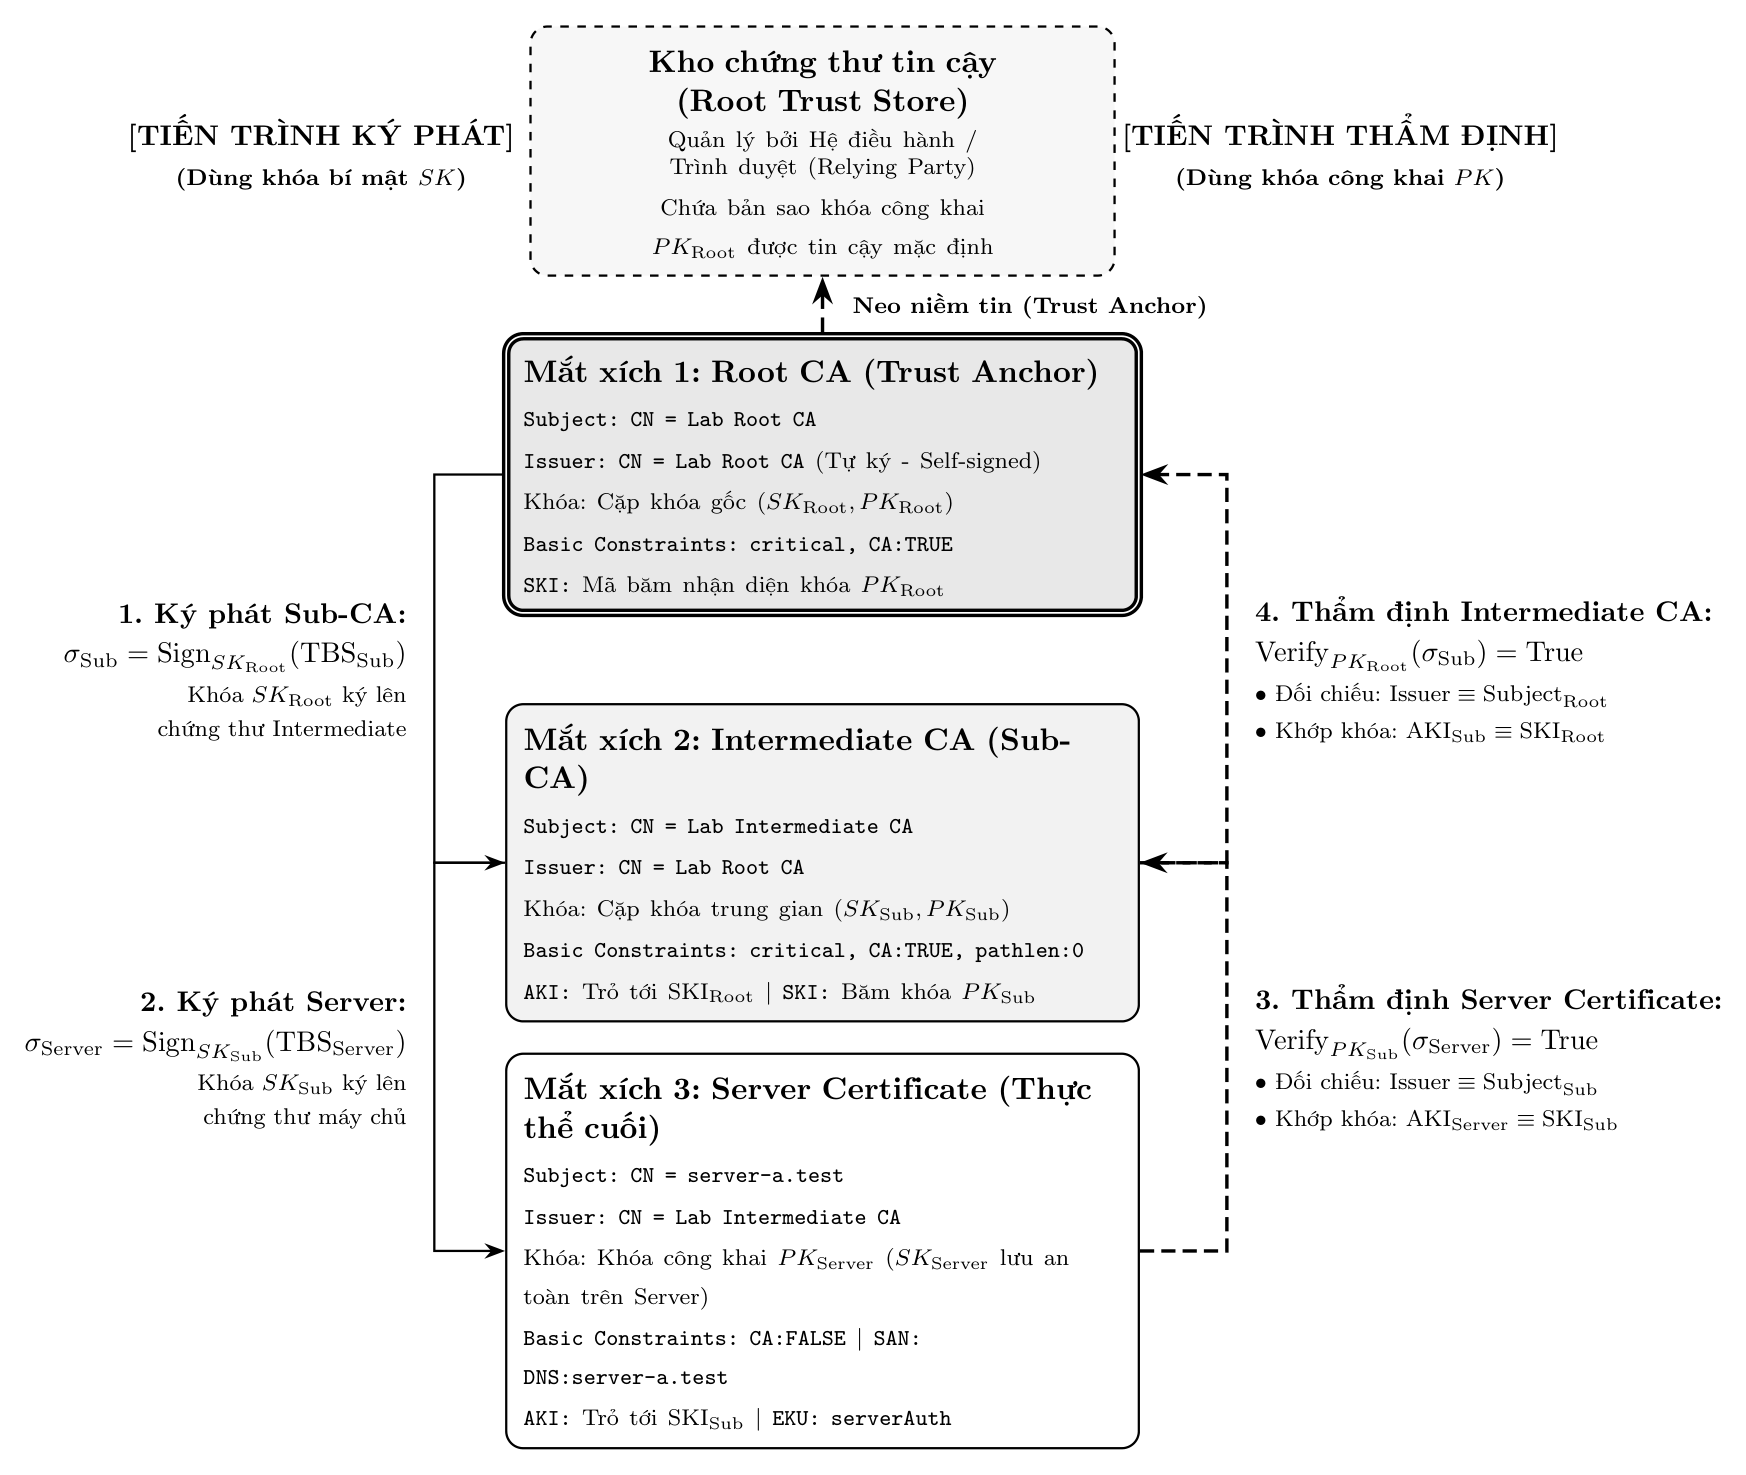
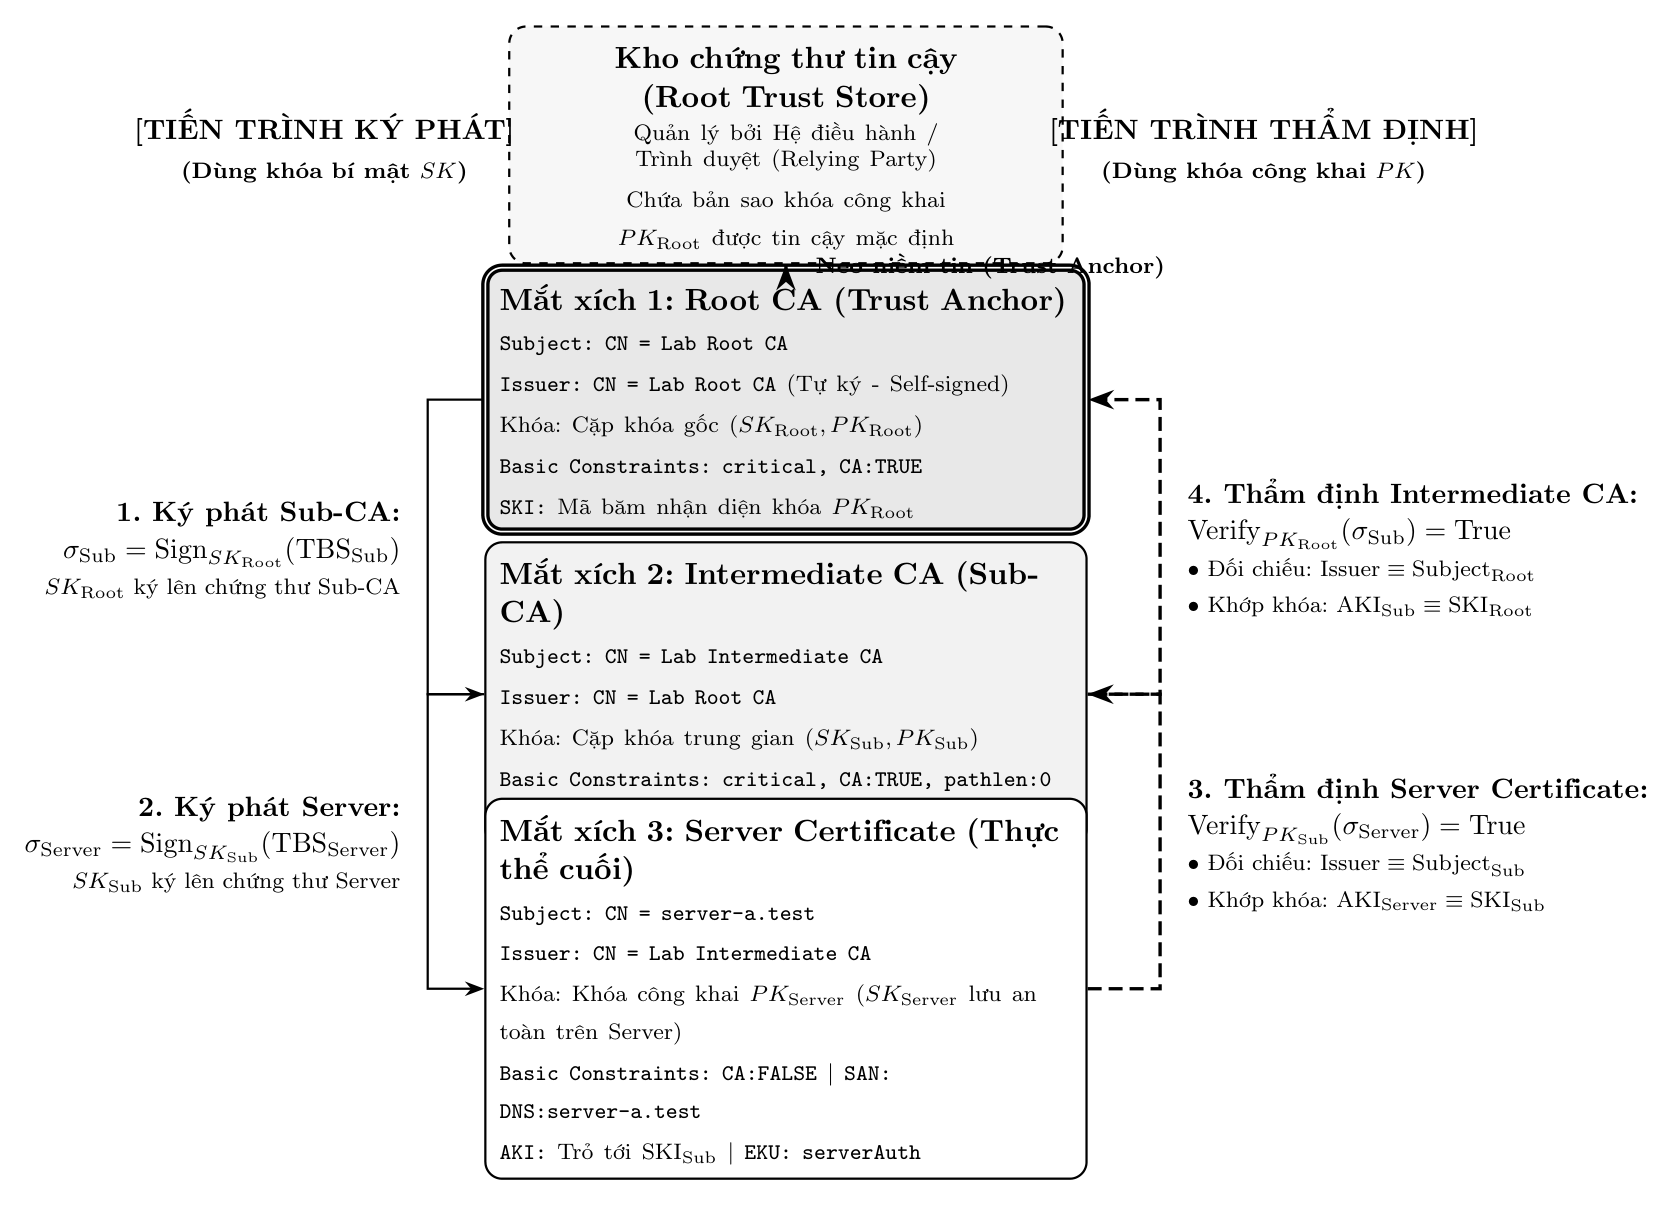
style(ch4): optimize placement of figures and tables so each is on same page as its description

diff --git a/report/figures/trust-chain-validation.tex b/report/figures/trust-chain-validation.tex
@@ -1,25 +1,25 @@
-\resizebox{0.92\textwidth}{!}{%
+\resizebox{0.88\textwidth}{!}{%
 \begin{tikzpicture}[
     % Định dạng các khối theo sắc xám học thuật nhất quán với Hình 3.1
-    rootbox/.style={draw=black, very thick, double, fill=gray!18, rounded corners=6pt, text width=7.4cm, align=left, inner sep=6pt, font=\small, text=black},
-    cabox/.style={draw=black, thick, fill=gray!10, rounded corners=6pt, text width=7.4cm, align=left, inner sep=6pt, font=\small, text=black},
-    leafbox/.style={draw=black, thick, fill=white, rounded corners=6pt, text width=7.4cm, align=left, inner sep=6pt, font=\small, text=black},
-    storebox/.style={draw=black, thick, dashed, fill=gray!6, rounded corners=6pt, text width=6.8cm, align=center, inner sep=6pt, font=\small, text=black},
+    rootbox/.style={draw=black, very thick, double, fill=gray!18, rounded corners=6pt, text width=7.2cm, align=left, inner sep=5pt, font=\small, text=black},
+    cabox/.style={draw=black, thick, fill=gray!10, rounded corners=6pt, text width=7.2cm, align=left, inner sep=5pt, font=\small, text=black},
+    leafbox/.style={draw=black, thick, fill=white, rounded corners=6pt, text width=7.2cm, align=left, inner sep=5pt, font=\small, text=black},
+    storebox/.style={draw=black, thick, dashed, fill=gray!6, rounded corners=6pt, text width=6.6cm, align=center, inner sep=5pt, font=\small, text=black},
     % Kiểu mũi tên nét liền (tiến trình ký) và nét đứt (tiến trình thẩm định)
-    issuancearrow/.style={-{Stealth[scale=1.1]}, thick, black},
-    valarrow/.style={-{Stealth[scale=1.15]}, very thick, dash pattern=on 5pt off 2.5pt, black},
-    trustarrow/.style={-{Stealth[scale=1.15]}, very thick, dash pattern=on 6pt off 3pt, black}
+    issuancearrow/.style={-{Stealth[scale=1.05]}, thick, black},
+    valarrow/.style={-{Stealth[scale=1.1]}, very thick, dash pattern=on 5pt off 2.5pt, black},
+    trustarrow/.style={-{Stealth[scale=1.1]}, very thick, dash pattern=on 6pt off 3pt, black}
 ]
 
     % --- KHỐI GỐC TIN CẬY (TRUST ANCHOR TRÊN CÙNG) ---
-    \node[storebox] (store) at (0, 13.6) {
-        \textbf{Kho chứng thư tin cậy (Root Trust Store)}\\[2pt]
+    \node[storebox] (store) at (0, 10.6) {
+        \textbf{Kho chứng thư tin cậy (Root Trust Store)}\\[1pt]
         {\scriptsize Quản lý bởi Hệ điều hành / Trình duyệt (Relying Party)\\[1pt]Chứa bản sao khóa công khai $PK_{\mathrm{Root}}$ được tin cậy mặc định}
     };
 
     % --- KHỐI 1: Root CA ---
-    \node[rootbox] (root) at (0, 9.6) {
-        \textbf{Mắt xích 1: Root CA (Trust Anchor)}\\[2pt]
+    \node[rootbox] (root) at (0, 7.4) {
+        \textbf{Mắt xích 1: Root CA (Trust Anchor)}\\[1pt]
         {\scriptsize \texttt{Subject: CN = Lab Root CA}}\\[1pt]
         {\scriptsize \texttt{Issuer:  CN = Lab Root CA} (Tự ký - Self-signed)}\\[1pt]
         {\scriptsize Khóa: Cặp khóa gốc $(SK_{\mathrm{Root}}, PK_{\mathrm{Root}})$}\\[1pt]
@@ -28,8 +28,8 @@
     };
 
     % --- KHỐI 2: Intermediate CA ---
-    \node[cabox] (subca) at (0, 4.8) {
-        \textbf{Mắt xích 2: Intermediate CA (Sub-CA)}\\[2pt]
+    \node[cabox] (subca) at (0, 3.7) {
+        \textbf{Mắt xích 2: Intermediate CA (Sub-CA)}\\[1pt]
         {\scriptsize \texttt{Subject: CN = Lab Intermediate CA}}\\[1pt]
         {\scriptsize \texttt{Issuer:  CN = Lab Root CA}}\\[1pt]
         {\scriptsize Khóa: Cặp khóa trung gian $(SK_{\mathrm{Sub}}, PK_{\mathrm{Sub}})$}\\[1pt]
@@ -39,7 +39,7 @@
 
     % --- KHỐI 3: Server Certificate ---
     \node[leafbox] (server) at (0, 0.0) {
-        \textbf{Mắt xích 3: Server Certificate (Thực thể cuối)}\\[2pt]
+        \textbf{Mắt xích 3: Server Certificate (Thực thể cuối)}\\[1pt]
         {\scriptsize \texttt{Subject: CN = server-a.test}}\\[1pt]
         {\scriptsize \texttt{Issuer:  CN = Lab Intermediate CA}}\\[1pt]
         {\scriptsize Khóa: Khóa công khai $PK_{\mathrm{Server}}$ ($SK_{\mathrm{Server}}$ lưu an toàn trên Server)}\\[1pt]
@@ -54,12 +54,12 @@
     % ==============================================================
     % TIÊU ĐỀ HAI TIẾN TRÌNH Ở ĐỈNH (KHÔNG XUNG ĐỘT)
     % ==============================================================
-    \node[align=center, font=\footnotesize\bfseries, text=black] at (-6.2, 13.6) {
+    \node[align=center, font=\footnotesize\bfseries, text=black] at (-5.8, 10.6) {
         [TIẾN TRÌNH KÝ PHÁT]\\[2pt]
         {\scriptsize (Dùng khóa bí mật $SK$)}
     };
 
-    \node[align=center, font=\footnotesize\bfseries, text=black] at (6.4, 13.6) {
+    \node[align=center, font=\footnotesize\bfseries, text=black] at (6.0, 10.6) {
         [TIẾN TRÌNH THẨM ĐỊNH]\\[2pt]
         {\scriptsize (Dùng khóa công khai $PK$)}
     };
@@ -68,40 +68,38 @@
     % TIẾN TRÌNH KÝ PHÁT (BÊN TRÁI - TỪ TRÊN XUỐNG)
     % ==============================================================
     % Root CA ký Sub-CA
-    \draw[issuancearrow] (root.west) -- (-4.8, 9.6) -- (-4.8, 4.8) -- (subca.west);
-    \node[anchor=east, align=right, font=\footnotesize] at (-5.0, 7.2) {
-        \textbf{1. Ký phát Sub-CA:}\\[2pt]
-        $\sigma_{\mathrm{Sub}} = \mathrm{Sign}_{SK_{\mathrm{Root}}}(\mathrm{TBS}_{\mathrm{Sub}})$\\[2pt]
-        {\scriptsize Khóa $SK_{\mathrm{Root}}$ ký lên}\\
-        {\scriptsize chứng thư Intermediate}
+    \draw[issuancearrow] (root.west) -- (-4.5, 7.4) -- (-4.5, 3.7) -- (subca.west);
+    \node[anchor=east, align=right, font=\footnotesize] at (-4.7, 5.55) {
+        \textbf{1. Ký phát Sub-CA:}\\[1pt]
+        $\sigma_{\mathrm{Sub}} = \mathrm{Sign}_{SK_{\mathrm{Root}}}(\mathrm{TBS}_{\mathrm{Sub}})$\\[1pt]
+        {\scriptsize $SK_{\mathrm{Root}}$ ký lên chứng thư Sub-CA}
     };
 
     % Sub-CA ký Server Certificate
-    \draw[issuancearrow] (subca.west) -- (-4.8, 4.8) -- (-4.8, 0.0) -- (server.west);
-    \node[anchor=east, align=right, font=\footnotesize] at (-5.0, 2.4) {
-        \textbf{2. Ký phát Server:}\\[2pt]
-        $\sigma_{\mathrm{Server}} = \mathrm{Sign}_{SK_{\mathrm{Sub}}}(\mathrm{TBS}_{\mathrm{Server}})$\\[2pt]
-        {\scriptsize Khóa $SK_{\mathrm{Sub}}$ ký lên}\\
-        {\scriptsize chứng thư máy chủ}
+    \draw[issuancearrow] (subca.west) -- (-4.5, 3.7) -- (-4.5, 0.0) -- (server.west);
+    \node[anchor=east, align=right, font=\footnotesize] at (-4.7, 1.85) {
+        \textbf{2. Ký phát Server:}\\[1pt]
+        $\sigma_{\mathrm{Server}} = \mathrm{Sign}_{SK_{\mathrm{Sub}}}(\mathrm{TBS}_{\mathrm{Server}})$\\[1pt]
+        {\scriptsize $SK_{\mathrm{Sub}}$ ký lên chứng thư Server}
     };
 
     % ==============================================================
     % TIẾN TRÌNH THẨM ĐỊNH RFC 5280 (BÊN PHẢI - TỪ DƯỚI LÊN)
     % ==============================================================
     % Thẩm định Server Certificate
-    \draw[valarrow] (server.east) -- (5.0, 0.0) -- (5.0, 4.8) -- (subca.east);
-    \node[anchor=west, align=left, font=\footnotesize] at (5.2, 2.4) {
-        \textbf{3. Thẩm định Server Certificate:}\\[2pt]
-        $\mathrm{Verify}_{PK_{\mathrm{Sub}}}(\sigma_{\mathrm{Server}}) = \mathrm{True}$\\[2pt]
+    \draw[valarrow] (server.east) -- (4.7, 0.0) -- (4.7, 3.7) -- (subca.east);
+    \node[anchor=west, align=left, font=\footnotesize] at (4.9, 1.85) {
+        \textbf{3. Thẩm định Server Certificate:}\\[1pt]
+        $\mathrm{Verify}_{PK_{\mathrm{Sub}}}(\sigma_{\mathrm{Server}}) = \mathrm{True}$\\[1pt]
         {\scriptsize $\bullet$ Đối chiếu: $\mathrm{Issuer} \equiv \mathrm{Subject}_{\mathrm{Sub}}$}\\[1pt]
         {\scriptsize $\bullet$ Khớp khóa: $\mathrm{AKI}_{\mathrm{Server}} \equiv \mathrm{SKI}_{\mathrm{Sub}}$}
     };
 
     % Thẩm định Intermediate CA
-    \draw[valarrow] (subca.east) -- (5.0, 4.8) -- (5.0, 9.6) -- (root.east);
-    \node[anchor=west, align=left, font=\footnotesize] at (5.2, 7.2) {
-        \textbf{4. Thẩm định Intermediate CA:}\\[2pt]
-        $\mathrm{Verify}_{PK_{\mathrm{Root}}}(\sigma_{\mathrm{Sub}}) = \mathrm{True}$\\[2pt]
+    \draw[valarrow] (subca.east) -- (4.7, 3.7) -- (4.7, 7.4) -- (root.east);
+    \node[anchor=west, align=left, font=\footnotesize] at (4.9, 5.55) {
+        \textbf{4. Thẩm định Intermediate CA:}\\[1pt]
+        $\mathrm{Verify}_{PK_{\mathrm{Root}}}(\sigma_{\mathrm{Sub}}) = \mathrm{True}$\\[1pt]
         {\scriptsize $\bullet$ Đối chiếu: $\mathrm{Issuer} \equiv \mathrm{Subject}_{\mathrm{Root}}$}\\[1pt]
         {\scriptsize $\bullet$ Khớp khóa: $\mathrm{AKI}_{\mathrm{Sub}} \equiv \mathrm{SKI}_{\mathrm{Root}}$}
     };

diff --git a/report/chapters/04-x509-xac-thuc.tex b/report/chapters/04-x509-xac-thuc.tex
@@ -106,6 +106,8 @@ Lab dùng chuỗi ba mắt xích $\mathrm{Root\ CA} \rightarrow \mathrm{Intermed
 \label{fig:trust-chain-validation}
 \end{figure}
 
+\clearpage
+
 \subsection{Quy trình xây dựng và xác minh}
 \label{subsec:path-building-validation}
 
@@ -118,6 +120,8 @@ Lab dùng chuỗi ba mắt xích $\mathrm{Root\ CA} \rightarrow \mathrm{Intermed
 \input{report/tables/path-validation-conditions}
 
 Khi mọi điều kiện đều đạt, kết quả là PASS (TC01, TC09).
+
+\newpage
 
 \subsection{Quan sát từ lab}
 \label{subsec:lab-observations}
